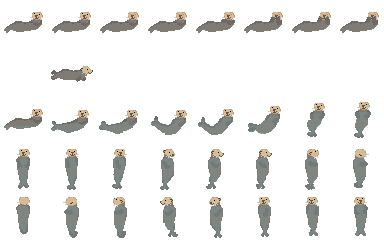
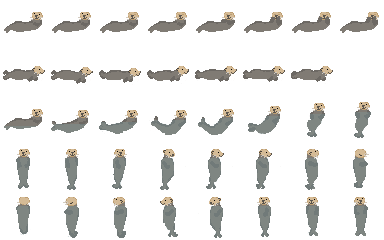
added reaction time and resign

Changed region(s): [[0.1875, 0.2625, 0.875, 0.35], [0.0, 0.2625, 0.125, 0.35]]

diff --git a/static/rosaStates.js b/static/rosaStates.js
@@ -82,39 +82,65 @@ export class Moving extends State {
         super('Moving');
         this.rosa = rosa;
         this.target = null;
+        this.timer = 0;
+        this.reactionTimer = 0;
+        this.hasReacted = false;
     }
     enter(){
         console.log('moving');
-        this.rosa.setAnimation(9, 9);
-        this.rosa.floating = 0;
-        if (this.rosa.heldItem){ 
-            this.rosa.heldItem.held = false;
-            this.rosa.heldItem = null;
-        }
+        this.timer = 0;
+        this.reactionTimer = 0;
+        this.hasReacted = false;
+        this.distance = 100;
     }
     handleInput(input, deltaTime){
         // if (input.activeObject) {
         //     this.rosa.target = input.activeObject;
         // }
         if (this.rosa.target){
-            let direction = {x:(this.rosa.target.x - this.rosa.x), y:(this.rosa.target.y - this.rosa.y)};
-            let distance = Math.sqrt(direction.x * direction.x + direction.y * direction.y);
-            if (distance <= 10 ){
-                console.log(this.rosa.target.active)
-                if (!this.rosa.target.active){
-                    this.rosa.setState(states.surface);
-                    this.rosa.heldItem = this.rosa.target;
-                    this.rosa.heldItem.held = true;
-                    this.rosa.target = null;
+            if (!this.hasReacted){
+                if (this.reactionTimer > this.rosa.reactionTime){
+                    this.rosa.setAnimation(8, 14, 5);
+                    this.rosa.floating = 0;
+                    if (this.rosa.heldItem){ 
+                        this.rosa.heldItem.held = false;
+                        this.rosa.heldItem = null;
+                    }
+                    this.hasReacted = true;
                 }
+                this.reactionTimer += deltaTime/1000;
             } else {
-                this.rosa.direction = Math.sign(direction.x)*1;
-                let directionNorm = {x: (direction.x / distance), y: (direction.y / distance)};
-                this.rosa.x += directionNorm.x * this.rosa.speed * (deltaTime/1000);
-                this.rosa.y += directionNorm.y*this.rosa.speed*(deltaTime/1000);
-                this.rosa.y =  Math.max(this.rosa.y, this.rosa.maxPositionInWater());
+                if (this.timer > this.rosa.resignTime){
+                    this.rosa.setState(states.surface);
+                    this.rosa.heldItem = null;
+                    this.rosa.target.active = true;
+                    this.rosa.target = null;
+                } else {
+                    let direction = {x:(this.rosa.target.x - this.rosa.x), y:(this.rosa.target.y - this.rosa.y)};
+                    let distance = Math.sqrt(direction.x * direction.x + direction.y * direction.y);
+                    if (Math.abs(distance - this.distance) <= 0.05){
+                        this.timer += deltaTime/1000;
+                    }
+                    this.distance = distance;
+                    if (distance <= 10 ){
+                        if (!this.rosa.target.active){
+                            this.rosa.setState(states.surface);
+                            this.rosa.heldItem = this.rosa.target;
+                            this.rosa.heldItem.held = true;
+                            this.rosa.target = null;
+                        }
+                    } else {
+                        this.rosa.direction = Math.sign(direction.x)*1;
+                        let directionNorm = {x: (direction.x / distance), y: (direction.y / distance)};
+                        this.rosa.x += directionNorm.x * this.rosa.speed * (deltaTime/1000);
+                        this.rosa.y += directionNorm.y*this.rosa.speed*(deltaTime/1000);
+                        this.rosa.y =  Math.max(this.rosa.y, this.rosa.maxPositionInWater());
+                    }
+                }
             }
         } else {
+            this.timer = 0;
+            this.reactionTimer = 0;
             this.rosa.setState(states.idle);
         }
     }
@@ -267,7 +293,6 @@ export class Spinning extends State {
     }
     handleInput(input, deltaTime){
         if (this.transitionIn){
-            console.log("t in")
             if (this.count >= this.transition.length){
                 this.transitionIn = false;
                 this.transitionOut = false;
@@ -276,7 +301,6 @@ export class Spinning extends State {
                 this.idleTimeBeforeAction = (14 / this.fps)*4 + 1.7;
                 this.idleTimer = 0
                 this.rosa.setAnimation(24, 37, this.fps);
-                console.log("t in done")
             } else {
                 if (this.idleTimer >= this.idleTimeBeforeAction){
                     this.rosa.setAnimation(this.transition[this.count]);

diff --git a/static/rosa.js b/static/rosa.js
@@ -24,6 +24,8 @@ export class Rosa {
         //this.maxPositionInWater = this.y;
         this.direction = 1;
         this.floating = 1; // Affected by waves
+        this.reactionTime = 0.4;
+        this.resignTime = 1.0;
         this.onLand = 0;
         this.speed = 40;
         this.heldItem = null;
